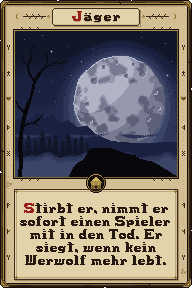
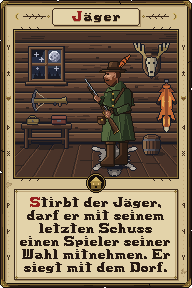
Jaeger-Karte
- Animierte Jaeger-Karte eingebunden (verlustfrei mit Farbpalette),
  Kartentext passt zur Spielregel
- Grafik-Checkliste: 6 von 47 fertig; Prompt-Vorlage ohne Jaeger

Claude-Session: https://claude.ai/code/session_01TK7gJoQ6SGeQsbXAg9JkfL

diff --git a/docs/assets.md b/docs/assets.md
@@ -1,6 +1,6 @@
 # Grafikliste (Pixelgrafik, Retro-Stil)
 
-47 Grafiken (davon fertig: Werwolf, Dorfbewohner, Hexe, Seherin, Rückseite; alle übrigen Rollenkarten sind mit dem Kartengenerator erzeugte Platzhalter mit gemeinsamer Szene), dazu 4 optionale und 6 Töne. Alles ist optional: Fehlt eine Datei, zeigt das Spiel einen Platzhalter.
+47 Grafiken (davon fertig: Werwolf, Dorfbewohner, Hexe, Seherin, Jäger, Rückseite; alle übrigen Rollenkarten sind mit dem Kartengenerator erzeugte Platzhalter mit gemeinsamer Szene), dazu 4 optionale und 6 Töne. Alles ist optional: Fehlt eine Datei, zeigt das Spiel einen Platzhalter.
 
 Empfohlene Reihenfolge: Rollenkarten, Hintergründe, Avatare, Symbole, Logo.
 
@@ -21,14 +21,14 @@ Empfohlene Reihenfolge: Rollenkarten, Hintergründe, Avatare, Symbole, Logo.
 | `cards/villager.png` | Dorfbewohner | fertig, animiert |
 | `cards/witch.png` | Hexe | fertig, animiert |
 | `cards/seer.png` | Seherin | fertig, animiert |
-| `cards/hunter.png` | Jäger | animiert, Bild: Nachtszene ohne Wolf |
+| `cards/hunter.png` | Jäger | fertig, animiert |
 | `cards/cupid.png` | Amor | animiert, Bild: Nachtszene ohne Wolf |
 | `cards/thief.png` | Dieb | animiert, Bild: Nachtszene ohne Wolf |
 | `cards/back.png` | Rückseite | fertig (Standbild) |
 | `cards/healer.png`, `elder.png`, `idiot.png`, `scapegoat.png`, `piper.png` | Neumond: Heiler, Der Alte, Dorfdepp, Sündenbock, Flötenspieler | animiert, Bild: Nachtszene ohne Wolf |
 | `cards/sister.png`, `brother.png`, `wolfhound.png`, `wild-child.png`, `fox.png`, `bear-tamer.png`, `knight.png`, `judge.png`, `angel.png`, `urwolf.png`, `big-bad-wolf.png`, `white-werewolf.png` | Charaktere: Schwester, Bruder, Wolfshund, Wildes Kind, Fuchs, Bärenführer, Ritter, Richter, Engel, Urwolf, Großer böser Wolf, Weißer Werwolf | animiert, Bild: Nachtszene ohne Wolf, bei den drei Werwolf-Rollen mit Wolf |
 
-Alle Karten außer Werwolf, Dorfbewohner, Hexe und Seherin sind mit dem Kartengenerator der Werwolf-Karte erzeugt: gleicher Rahmen, Haus im Medaillon bei Dorf-Rollen und Wolf bei Werwolf-Rollen, Titel und kurzer Kartentext je Rolle, gemeinsame Nachtszene. Ein eigenes Motiv je Rolle ersetzt später nur das Bildfeld.
+Alle Karten außer Werwolf, Dorfbewohner, Hexe, Seherin und Jäger sind mit dem Kartengenerator der Werwolf-Karte erzeugt: gleicher Rahmen, Haus im Medaillon bei Dorf-Rollen und Wolf bei Werwolf-Rollen, Titel und kurzer Kartentext je Rolle, gemeinsame Nachtszene. Ein eigenes Motiv je Rolle ersetzt später nur das Bildfeld.
 
 - **Komplette Karte wie die Werwolf-Karte: 192 x 288 Pixel** (2:3) mit eigenem Rahmen, Titel und Beschreibung. Das Spiel zeichnet keinen zusätzlichen Rahmen. Die abgenutzte Außenkante darf transparent sein.
 - Angezeigt 1x auf Handys, 2x (384 x 576) auf großen Bildschirmen, als Vorschau in der Endübersicht verkleinert (0,5x) mit dem Rollennamen darunter.

diff --git a/docs/claude-design-prompts.md b/docs/claude-design-prompts.md
@@ -9,7 +9,7 @@ Daraus folgt:
 | Design-System aus dem Repo | Claude Design | 1 |
 | Bildschirme verbessern, dann an Claude Code übergeben | Claude Design | 2 |
 | Hintergründe, Avatare, Symbole, Logo | Claude Design, als HTML-Seite mit PNG-Download (Umweg, nicht getestet) | 3 |
-| Rollenkarten (20) | derselbe Weg wie bei der Seherin, nicht Claude Design | 4 |
+| Rollenkarten (19) | derselbe Weg wie bei der Seherin, nicht Claude Design | 4 |
 
 Die Rollenkarten brauchen deinen Python-Generator, ein PNG-Sprite-Sheet und Aseprite-JSON. Das liefert Claude Design laut Exportliste nicht.
 
@@ -165,7 +165,6 @@ Technik, sonst passt die Karte nicht ins Spiel:
 
 | Datei | Titel | Kartentext | Medaillon | Motiv | Clip |
 | --- | --- | --- | --- | --- | --- |
-| `hunter` | Jäger | Stirbt er, nimmt er sofort einen anderen Spieler mit in den Tod. Er siegt mit dem Dorf. | Haus | Jäger mit Armbrust am Waldrand, Geweih an der Hütte | `aim`: legt an, Bolzen fliegt |
 | `cupid` | Amor | In der ersten Nacht verliebt er zwei Spieler. Stirbt einer, stirbt auch der andere. | Haus | Junge Gestalt mit Bogen im Rosengarten | `arrow`: Herzpfeil, zwei Herzen leuchten |
 | `thief` | Dieb | In der ersten Nacht darf er seine Karte gegen eine der zwei übrigen tauschen. | Haus | Kapuzengestalt mit Laterne in der Gasse, zwei verdeckte Karten auf einer Kiste | `swap`: tauscht die Karte |
 | `healer` | Heiler | Schützt jede Nacht einen Spieler vor den Werwölfen, nie zweimal nacheinander denselben. | Haus | Heiler in der Kräuterkammer mit Mörser | `heal`: schützender Lichtkreis |

diff --git a/docs/grafik-checkliste.md b/docs/grafik-checkliste.md
@@ -1,6 +1,6 @@
 # Grafik-Checkliste
 
-Stand: 5 von 47 Grafiken fertig, dazu 4 optionale. Alles ist Pixelgrafik: PNG in Originalgröße (1x), harte Kanten, Farben der Werwolf-Karte. Details stehen in [assets.md](assets.md).
+Stand: 6 von 47 Grafiken fertig, dazu 4 optionale. Alles ist Pixelgrafik: PNG in Originalgröße (1x), harte Kanten, Farben der Werwolf-Karte. Details stehen in [assets.md](assets.md).
 
 Das Spiel läuft auch ohne die offenen Grafiken. Bis dahin zeigt es Platzhalter.
 
@@ -10,9 +10,10 @@ Das Spiel läuft auch ohne die offenen Grafiken. Bis dahin zeigt es Platzhalter.
 - [x] `cards/villager.png`: Dorfbewohner (animiert)
 - [x] `cards/witch.png`: Hexe (animiert)
 - [x] `cards/seer.png`: Seherin (animiert)
+- [x] `cards/hunter.png`: Jäger (animiert)
 - [x] `cards/back.png`: Kartenrückseite
 
-## 1. Rollenkarten (20)
+## 1. Rollenkarten (19)
 
 Im Spiel sind das zurzeit Platzhalter aus dem Kartengenerator: gleicher Rahmen, gleiche Nachtszene, eigener Titel und Text. Du ersetzt nur das Motiv.
 
@@ -22,7 +23,6 @@ Im Spiel sind das zurzeit Platzhalter aus dem Kartengenerator: gleicher Rahmen, 
 
 Grundspiel:
 
-- [ ] `cards/hunter.png`: Jäger
 - [ ] `cards/cupid.png`: Amor
 - [ ] `cards/thief.png`: Dieb
 
